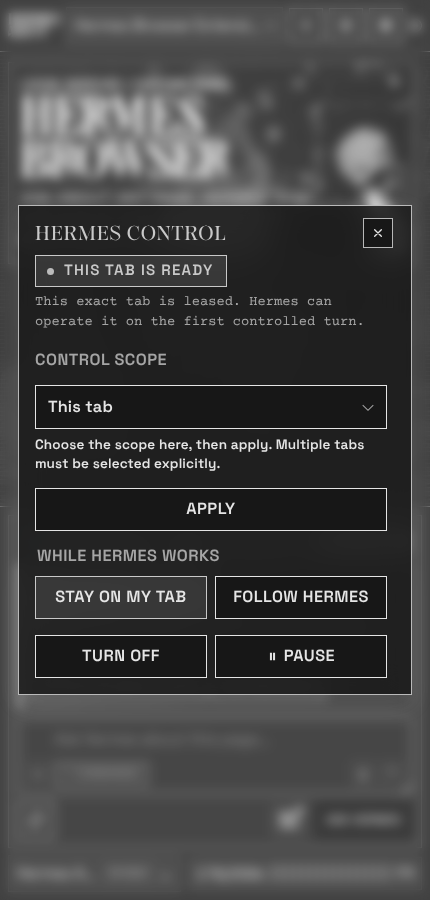
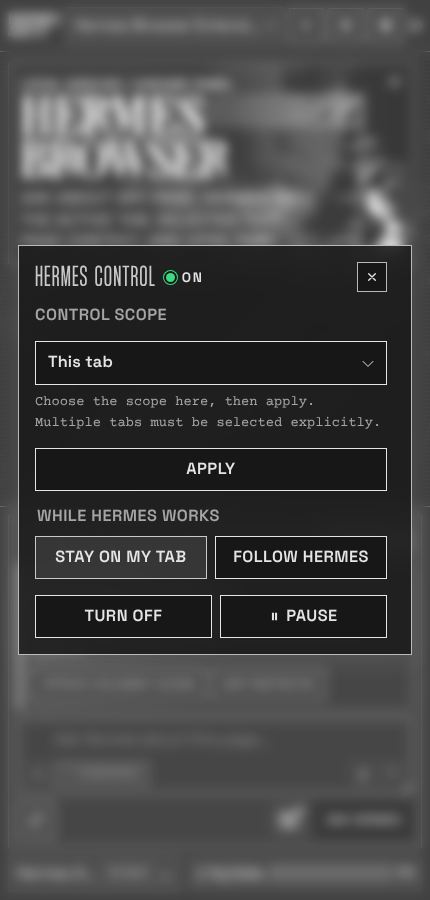
docs(readme): show the Hermes Control window with its on/off light

diff --git a/README.md b/README.md
@@ -44,7 +44,7 @@ Screenshots use the Mono theme in Dark mode.
 | --- | --- | --- |
 | <img src="./assets/readme/hermes-browser-sidepanel.png" alt="Hermes Browser side panel in Mono Dark, answering a question about the attached page" width="300" /> | <img src="./assets/readme/hermes-browser-bot-chats.png" alt="Bot Mode group chat with four demo agents replying in one room" width="300" /> | <img src="./assets/readme/hermes-browser-bot-profile.png" alt="Bot Mode profile editor with avatar, display title, and description" width="300" /> |
 | Theme settings | Local agents | Hermes Control |
-| <img src="./assets/readme/hermes-browser-theme-settings.png" alt="Appearance settings with color mode, text zoom, and built-in theme previews" width="300" /> | <img src="./assets/readme/hermes-browser-local-agents.png" alt="Agent Profile settings listing the verified agents from the connected gateway" width="300" /> | <img src="./assets/readme/hermes-browser-control.png" alt="Hermes Control dialog with scope, stay or follow, and turn off controls" width="300" /> |
+| <img src="./assets/readme/hermes-browser-theme-settings.png" alt="Appearance settings with color mode, text zoom, and built-in theme previews" width="300" /> | <img src="./assets/readme/hermes-browser-local-agents.png" alt="Agent Profile settings listing the verified agents from the connected gateway" width="300" /> | <img src="./assets/readme/hermes-browser-control.png" alt="Hermes Control dialog with an on/off light, scope, stay or follow, and turn off controls" width="300" /> |
 
 ## Requirements
 
